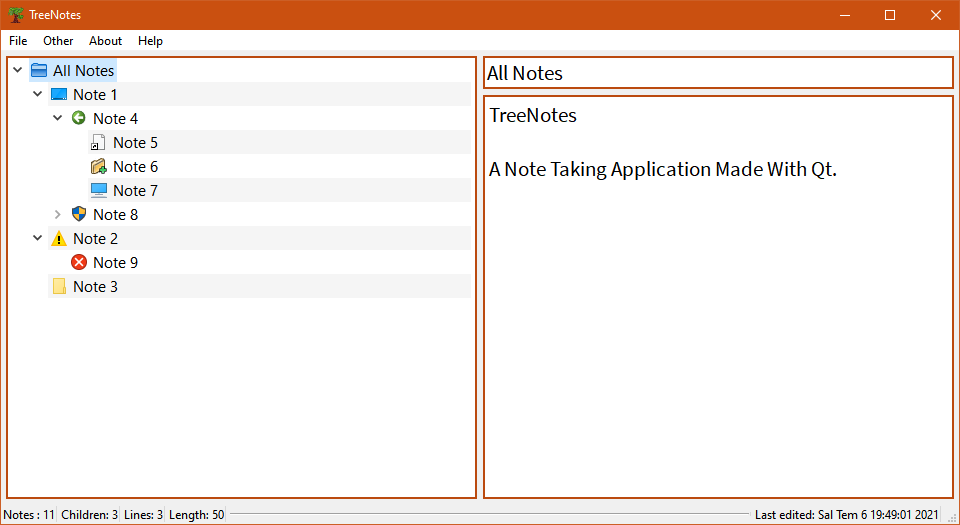
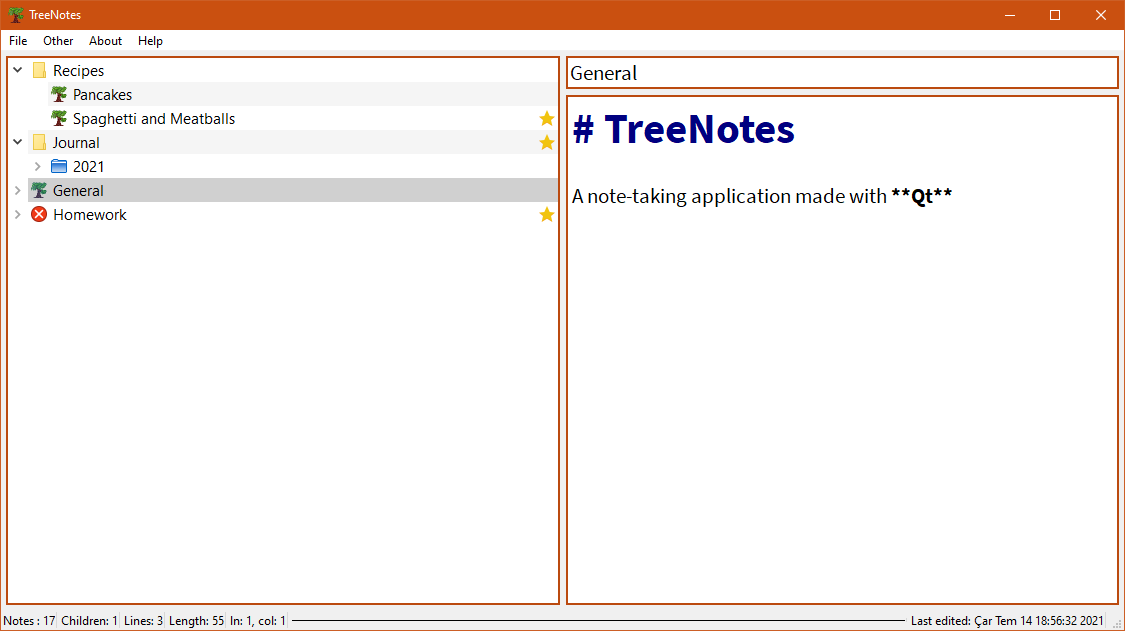
Changes

Changed region(s): [[0.0, 0.0, 1.0, 1.0]]

diff --git a/treenotes.cpp b/treenotes.cpp
@@ -23,7 +23,6 @@ TreeNotes::TreeNotes(QWidget *parent)
     appConfig.notetree_animated = true;
     appConfig.doubleClickToEditMessage = true;
     appConfig.layoutMargin = 5;
-    appConfig.notetree_select_rows = false;
     appConfig.splitter_handle_width = 6;
     appConfig.confirm_delete = true;
     appConfig.line_wrapping = true;
@@ -76,11 +75,15 @@ TreeNotes::TreeNotes(QWidget *parent)
     InitShortcuts();
     InitStatusLabels();
     ReadFromFile();
-    //ReadAppConfig(appConfig);
     ReadQSettings();
     InitMacroVector();
 
     ui->messageEdit->setCursorWidth(2);
+
+    noteTree->expandAll();
+    noteTree->header()->setSectionResizeMode(0, QHeaderView::Stretch);
+    noteTree->resizeColumnToContents(1);
+    noteTree->collapseAll();
 
     qDebug() << "Initilization of the main window is finished";
 }
@@ -143,7 +146,6 @@ void TreeNotes::ReadQSettings(){
     appConfig.notetree_animated = settings.value("notetree_animated", appConfig.notetree_animated).toBool();
     appConfig.doubleClickToEditMessage = settings.value("doubleClickToEditMessage", appConfig.doubleClickToEditMessage).toBool();
     appConfig.layoutMargin = settings.value("layoutMargin", appConfig.layoutMargin).toInt();
-    appConfig.notetree_select_rows = settings.value("notetree_select_rows", appConfig.notetree_select_rows).toBool();
     appConfig.splitter_handle_width = settings.value("splitter_handle_width", appConfig.splitter_handle_width).toInt();
     appConfig.confirm_delete = settings.value("confirm_delete", appConfig.confirm_delete).toBool();
     appConfig.line_wrapping = settings.value("line_wrapping", appConfig.line_wrapping).toBool();
@@ -178,7 +180,6 @@ void TreeNotes::saveQSettings(){
     settings.setValue("notetree_animated", appConfig.notetree_animated);
     settings.setValue("doubleClickToEditMessage", appConfig.doubleClickToEditMessage);
     settings.setValue("layoutMargin", appConfig.layoutMargin);
-    settings.setValue("notetree_select_rows", appConfig.notetree_select_rows);
     settings.setValue("splitter_handle_width", appConfig.splitter_handle_width);
     settings.setValue("confirm_delete", appConfig.confirm_delete);
     settings.setValue("line_wrapping", appConfig.line_wrapping);
@@ -230,12 +231,6 @@ void TreeNotes::ReadAppConfig(app_config appConfig){
     doubleClickToEditMessage = appConfig.doubleClickToEditMessage;
     centralWidget()->layout()->setMargin(appConfig.layoutMargin);
     splitter->setHandleWidth(appConfig.splitter_handle_width);
-    if(appConfig.notetree_select_rows){
-        noteTree->setSelectionBehavior(QAbstractItemView::SelectRows);
-    }
-    else{
-        noteTree->setSelectionBehavior(QAbstractItemView::SelectItems);
-    }
     if(appConfig.line_wrapping){
         ui->messageEdit->setLineWrapMode(PlainTextEdit::WidgetWidth);
     }
@@ -280,7 +275,9 @@ void TreeNotes::ReadChildren(QDomDocument *doc, QDomNode node, TreeWidgetItem *p
         newItem->setIcon(0 , iconVector.at(currentElement.attribute("icon").toInt()));
         newItem->iconVectorIndex = currentElement.attribute("icon").toInt();
         newItem->lastEdited = QDateTime::fromString(currentElement.attribute("lastEdited"));
+        newItem->starred = qvariant_cast<bool>(currentElement.attribute("starred", false));
         parent->addChild(newItem);
+        setStar(newItem, newItem->starred);
         ReadChildren(doc, node.toElement().childNodes().at(i), newItem);
     }
 }
@@ -318,7 +315,9 @@ void TreeNotes::ReadFromFile(){
             newItem->setIcon(0 , iconVector.at(currentElement.attribute("icon").toInt()));
             newItem->iconVectorIndex = (currentElement.attribute("icon").toInt());
             newItem->lastEdited = QDateTime::fromString(currentElement.attribute("lastEdited"));
+            newItem->starred = qvariant_cast<bool>(currentElement.attribute("starred", false));
             noteTree->addTopLevelItem(newItem);
+            setStar(newItem, newItem->starred);
             ReadChildren(&document, root.toElement().childNodes().at(i), newItem);
         }
     }
@@ -335,6 +334,7 @@ void TreeNotes::AddChildren(QDomDocument *doc, QDomElement* elem, QTreeWidgetIte
             newElem.setAttribute("title", ((TreeWidgetItem*)(*it))->text(0));
             newElem.setAttribute("icon", ((TreeWidgetItem*)(*it))->iconVectorIndex);
             newElem.setAttribute("lastEdited", ((TreeWidgetItem*)(*it))->lastEdited.toString());
+            newElem.setAttribute("starred", (((TreeWidgetItem*)(*it))->starred));
             elem->appendChild(newElem);
             AddChildren(doc, &newElem, *it);
         }
@@ -359,6 +359,7 @@ void TreeNotes::saveToFile(){
             elem.setAttribute("title", (*it)->text(0));
             elem.setAttribute("icon", ((TreeWidgetItem*)(*it))->iconVectorIndex);
             elem.setAttribute("lastEdited", ((TreeWidgetItem*)(*it))->lastEdited.toString());
+            elem.setAttribute("starred", (((TreeWidgetItem*)(*it))->starred));
             AddChildren(&document, &elem, (*it));
             root.appendChild(elem);
         }
@@ -400,7 +401,6 @@ TreeWidgetItem* TreeNotes::AddNote(TreeWidgetItem *parent, QString text,QString 
     itemToAdd->setText(0,text);
     itemToAdd->iconVectorIndex = 0;
     itemToAdd->message = message;
-    itemToAdd->setBackground(0, Qt::white);
 
     if(parent == NULL){
         noteTree->addTopLevelItem(itemToAdd);
@@ -409,6 +409,8 @@ TreeWidgetItem* TreeNotes::AddNote(TreeWidgetItem *parent, QString text,QString 
 
     parent->addChild(itemToAdd);
     parent->setExpanded(true);
+
+    noteTree->setCurrentItem(itemToAdd);
 
     return itemToAdd;
 }
@@ -584,7 +586,8 @@ void TreeNotes::on_actionMove_Down_triggered()
 void TreeNotes::on_actionSet_Icon_triggered()
 {
     if(!noteTree->currentItem()) return;
-    IconSelectorDialog *isd = new IconSelectorDialog(NULL, iconVector);
+    IconSelectorDialog *isd = new IconSelectorDialog(this, iconVector, ((TreeWidgetItem*)noteTree->currentItem())->iconVectorIndex);
+
     isd->setFont(this->font());
     if(isd->exec()){
         noteTree->currentItem()->setIcon(0, isd->selectedIcon);
@@ -622,6 +625,7 @@ void TreeNotes::InitIconVector(){
     iconVector.append(style()->standardIcon(QStyle::SP_DesktopIcon));
     iconVector.append(style()->standardIcon(QStyle::SP_VistaShield));
     iconVector.append(style()->standardIcon(QStyle::SP_ArrowBack));
+    iconVector.append(QIcon(":/Resources/Icons/star.png"));
 }
 
 void TreeNotes::InitShortcuts(){
@@ -908,3 +912,24 @@ void TreeNotes::CleanBackups(int max, QString backupsDir){
         backups.remove(backups.absolutePath() + "/" + fileToRemove);
     }
 }
+
+void TreeNotes::setStar(TreeWidgetItem* i, bool s){
+    if(s)
+    //i->setText(1, "★");
+    i->setIcon(1, QIcon(":/Resources/Icons/star.png"));
+    else
+    //i->setText(1, "");
+    i->setIcon(1, QIcon());
+
+    i->starred = s;
+
+    noteTree->resizeColumnToContents(1);
+}
+
+void TreeNotes::on_actionStar_Unstar_triggered()
+{
+    if(!noteTree->currentItem()) return;
+    setStar((TreeWidgetItem*)noteTree->currentItem(), !((TreeWidgetItem*)noteTree->currentItem())->starred);
+    noteTree->setCurrentItem(noteTree->currentItem());
+}
+

diff --git a/Dialogs/settingsdialog.cpp b/Dialogs/settingsdialog.cpp
@@ -16,7 +16,6 @@ SettingsDialog::~SettingsDialog()
 void SettingsDialog::setAppConfig(app_config appConfig){
     this->m_appConfig = appConfig;
     ui->notetree_alternating_row_colors->setChecked(appConfig.notetree_alternating_row_colors);
-    ui->notetree_select_rows->setChecked(appConfig.notetree_select_rows);
     ui->notetree_indentation_size->setValue(appConfig.notetree_indentation_size);
     ui->opacity->setValue(appConfig.opacity);
     ui->notetree_animated->setChecked(appConfig.notetree_animated);
@@ -33,7 +32,6 @@ void SettingsDialog::setAppConfig(app_config appConfig){
 
 struct app_config SettingsDialog::appConfig(){
     m_appConfig.notetree_alternating_row_colors = ui->notetree_alternating_row_colors->isChecked();
-    m_appConfig.notetree_select_rows = ui->notetree_select_rows->isChecked();
     m_appConfig.notetree_indentation_size = ui->notetree_indentation_size->value();
     m_appConfig.opacity = ui->opacity->value();
     m_appConfig.notetree_animated = ui->notetree_animated->isChecked();

diff --git a/treenotes.h b/treenotes.h
@@ -17,13 +17,9 @@
 #include <QSplitter>
 #include <QFontDialog>
 #include <QSettings>
-#include <QSpacerItem>
 #include <QDir>
 #include <QFileDialog>
-#include <QMetaMethod>
 #include <QMessageBox>
-#include <QTranslator>
-#include <QScrollArea>
 #include <QScrollBar>
 
 //#include <QtXml>
@@ -99,6 +95,7 @@ private slots:
     void ShowContextMenu(const QPoint &pos);
     void SetNoteTreeDragDrop(bool);
     void CleanBackups(int max, QString backupsDir);
+    void setStar(TreeWidgetItem*, bool);
 
     QString boolToString(bool a);
     bool stringToBool(QString a);
@@ -127,6 +124,8 @@ private slots:
     void on_actionUndo_Delete_triggered();
 
     void on_actionSettings_triggered();
+
+    void on_actionStar_Unstar_triggered();
 
 private:
     Ui::TreeNotes *ui;

diff --git a/Dialogs/iconselectordialog.cpp b/Dialogs/iconselectordialog.cpp
@@ -1,7 +1,7 @@
 #include "iconselectordialog.h"
 #include "ui_iconselectordialog.h"
 
-IconSelectorDialog::IconSelectorDialog(QWidget *parent, QVector<QIcon> iconVector) :
+IconSelectorDialog::IconSelectorDialog(QWidget *parent, QVector<QIcon> iconVector, int initialPosition) :
     QDialog(parent),
     ui(new Ui::IconSelectorDialog)
 {
@@ -25,6 +25,8 @@ IconSelectorDialog::IconSelectorDialog(QWidget *parent, QVector<QIcon> iconVecto
     for(int i = 0; i < icons.count(); i++){
         ui->iconBox->addItem(icons[i], "");
     }
+
+    ui->iconBox->setCurrentIndex(initialPosition);
 }
 
 IconSelectorDialog::~IconSelectorDialog()

diff --git a/Dialogs/iconselectordialog.h b/Dialogs/iconselectordialog.h
@@ -16,7 +16,7 @@ class IconSelectorDialog : public QDialog
 
 public:
 
-    explicit IconSelectorDialog(QWidget *parent = nullptr, QVector<QIcon> iconVector = QVector<QIcon>());
+    explicit IconSelectorDialog(QWidget *parent = nullptr, QVector<QIcon> iconVector = QVector<QIcon>(), int initialPosition = 0);
     ~IconSelectorDialog();
 
     QIcon selectedIcon;

diff --git a/appconfig.h b/appconfig.h
@@ -3,7 +3,6 @@
 
 struct app_config{
     bool notetree_alternating_row_colors;
-    bool notetree_select_rows;
     int notetree_indentation_size;
     int opacity; //100 for solid, 0 for transparent
     bool notetree_animated;

diff --git a/treewidgetitem.h b/treewidgetitem.h
@@ -19,6 +19,8 @@ public:
 
     TreeWidgetItem *_clone();
 
+    bool starred = false;
+
     int vScrollBarPos;
     int hScrollBarPos;
 };
